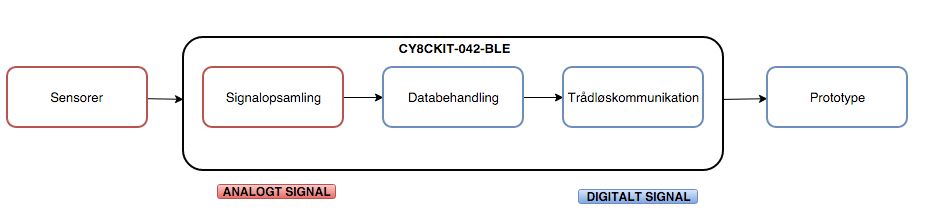
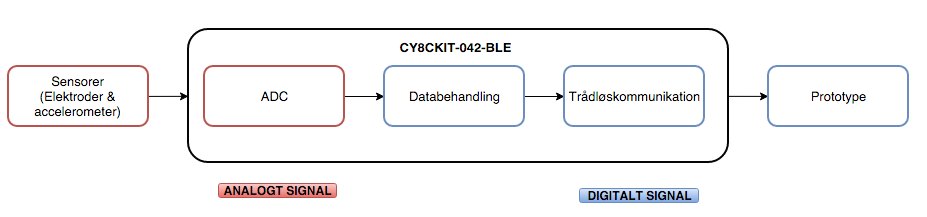
...

diff --git a/rapportAfsnit/cProblemanalyse/Knaeleddet.tex b/rapportAfsnit/cProblemanalyse/Knaeleddet.tex
@@ -1,6 +1,6 @@
 % !TeX spellcheck = da_DK
 \section{Gangfunktion}
-Efterhånden som ALS-patienter mister muskelkraft, vil bevægeligheden i deres led nedsættes, eftersom de ikke har tilstrækkelig muskelkraft til at udnytte leddenes bevægelighed. Af denne grund opstår der kontrakturer i leddene, og muskelstramninger i de muskler, der er omkringliggende det pågældende led. Ved gang anvendes knæ-, hofte- og ankelleddet, hvilket fremgår af \autoref{fig:knaet}, og hvis disse led ikke akviteres, opstår muskelstramninger i benenes muskler \citep{instforms2008}. Knæleddet vælges som udgangspunkt for et muligt body augmentation-system i form af et exoskelet, da knæleddet har et begrænset antal frihedsgrader. Dette gør, at knæleddet og de omkringliggende muskler er simplest at opbygge et system omkring. Hvis der kan laves et exoskelet omkring knæleddet, vil det kunne antages, at det også er muligt ved henholdsvis hofte- og ankelleddet, så gangfunktionen kan opretholdes.
+Efterhånden som ALS-patienter mister muskelkraft, vil bevægeligheden i deres led nedsættes, eftersom de ikke har tilstrækkelig muskelkraft til at udnytte leddenes bevægelighed. Af denne grund opstår der kontrakturer i leddene, og muskelstramninger i de muskler, der er omkringliggende. Ved gang anvendes knæ-, hofte- og ankelleddet, hvilket fremgår af \autoref{fig:knaet}, og hvis disse led ikke akviteres, opstår der muskelstramninger i benenes muskler \citep{instforms2008}. Knæleddet vælges som udgangspunkt for et muligt body augmentation-system i form af et exoskelet, da knæleddet er et hængselled og derfor har et begrænset antal frihedsgrader. Knæleddet har en frihedsgrad, modsat andre mere komplekse led, hvilket gør at leddet kun kan bevæge sig i en akse. Det antages derfor at knæleddet er et af de led som er simplest at opbygge et system omkring og opsamle signaler fra de omkringliggende muskler. Hvis der kan laves et exoskelet omkring knæleddet, vil det kunne antages, at samme princip kan muliggøres ved henholdsvis hofte- og ankelleddet, så gangfunktionen kan opretholdes.
 
 \begin{figure} [H]
 \centering
@@ -10,7 +10,8 @@ Efterhånden som ALS-patienter mister muskelkraft, vil bevægeligheden i deres l
 \end{figure} 
 
 \subsection{Knæets opbygning}
-Knæleddet er et hængselled, hvilket medvirker til, at knæet kan rotere begrænset, fleksere og ekstensere. Knæet består af tre separate ledforbindelser. To, der er forbundet mellem femur og tibia, samt et mellem patella og femur, hvilket fremgår af \autoref{fig:knae_anatomi}. Ud over de tre separate ledforbindelser stabiliseres knæet af syv ledbånd. Ét af de syv ledbånd er patellarsenen, som er ansvarlig under extension af knæet. Derudover er der to ledbånd, som strækker sig mellem femur, tibia og fibia, hvilket er med til at styrke knæleddets overflade posteriort. Inde i ledkapslen befinder det forreste korsbånd (ACL) og det bagerste korsbånd (PCL), som har til opgave at fastgøre indre knoglefremspring af tibia til knoglefremspringet på femur. Korsbåndene har til opgave at begrænse anteriore og posteriore bevægelser af femur og er med til at opretholde retningen af knoglefremspringene. Det tibiale kollaterale ligament forstærker den mediale flade af knæleddet og det fibulære kollaterale ligament forstærker sidefladen. Disse ligamenter anvendes kun ved fuld ekstension \citep{martini2012}.
+Knæleddet er som tidligere nævnt et hængselled, hvilket medvirker til få frihedsgrader, som gør at knæet kan rotere begrænset samt fleksere og ekstensere.
+Knæet består af tre separate ledforbindelser. To, der er forbundet mellem femur og tibia, samt et mellem patella og femur, hvilket fremgår af \autoref{fig:knae_anatomi}. Ud over de tre separate ledforbindelser stabiliseres knæet af syv ledbånd. Ét af de syv ledbånd er patellarsenen, som er ansvarlig under extension af knæet. Derudover er der to ledbånd, som strækker sig mellem femur, tibia og fibia, hvilket er med til at styrke knæleddets overflade posteriort. Inde i ledkapslen befinder det forreste korsbånd (ACL) og det bagerste korsbånd (PCL), som har til opgave at fastgøre indre knoglefremspring af tibia til knoglefremspringet på femur. Korsbåndene har til opgave at begrænse anteriore og posteriore bevægelser af femur og er med til at opretholde retningen af knoglefremspringene. Det tibiale kollaterale ligament forstærker den mediale flade af knæleddet og det fibulære kollaterale ligament forstærker sidefladen. Disse ligamenter anvendes kun ved fuld ekstension \citep{martini2012}.
 
 \begin{figure}[H]
 \centering
@@ -20,7 +21,7 @@ Knæleddet er et hængselled, hvilket medvirker til, at knæet kan rotere begræ
 \end{figure} 
 
 \subsection{Knæets funktion}
-Ved gang aktiveres quadricepsmusklerne, der sidder anteriort på femur, og hamstringmusklerne, der sidder poseriort på femur, hvilket fremgår af \autoref{fig:knae_anatomi}. Quadricepsmusklerne består af rectus femoris, vastus intermedius, vastus medialis og vastus lateralis. Hamstringmusklerne består af biceps femoris, semitendinosus og semimembranosus. Ved bevægelse foretager quadriceps- eller hamstringmusklerne ekstension eller fleksion, hvorved de fungerer som hinandens agonister eller antagonister under bevægelse \citep{martini2012}. 
+Ved gang aktiveres quadricepsmusklerne, der sidder anteriort på femur, og hasemusklerne, der sidder poseriort på femur, hvilket fremgår af \autoref{fig:knae_anatomi}. Quadricepsmusklerne består af rectus femoris, vastus intermedius, vastus medialis og vastus lateralis. Hamstringmusklerne består af biceps femoris, semitendinosus og semimembranosus. Ved bevægelse foretager quadriceps- eller hasemusklerne ekstension eller fleksion, hvorved de fungerer som hinandens agonister eller antagonister under bevægelse \citep{martini2012}. 
 
 Som tidligere nævnt anvendes hofte, knæ og ankler under gang. Udover disse led er også kropsposituren og sving af leddene afgørende for gangfunktionen. Det fremgår af \autoref{fig:knaet}, hvordan de forskellige led udfører fleksion, ekstension og ændres fra ekstension til neutral bevægelse under gang \citep{martini2012}.
 
@@ -32,7 +33,7 @@ Knæets funktion for bøjningen af benet kan dermed ses ved udførelse af en squ
 
 Squat kan udføres med varierende grader af fleksion af knæet. De mest anvendte varianter af øvelsen er halv eller fuld squat. Den halve squat-øvelse udføres indtil lårene er parallelle med jorden, hvilket svarer til en fleksion af knæet fra omkring $0-100^{\circ}$. Den dybe squat-øvelse udføres indtil det posteriore del af låret og læggen kommer i kontakt med hinanden. Den dybe squat anbefales mere trænede personer, hvorfor den halve squat typisk er foretrukket til optræning af knæet \citep{escamilla2001}.
 
-Ved udførelse af en squat-øvelse er det primært lårmusklerne, quadriceps- og hamstringsmusklerne, der aktiveres. Under denne øvelse aktiveres quadricepsmusklerne ved $80-90^{\circ}$ fleksion af knæet og aktivationen af musklerne er herefter konsistent. Der ses en større\fxnote{større end hvad?} aktivering af vastus intermedius, vastus medialis samt vastus lateris, da disse muskler er én ledmuskel, hvor rectus femoris er en to-ledsmuskel \fxnote{hvorfor aktiveres én-ledsmuskler mere end to-ledsmuskler?}. Hamstringmusklerne aktiveres ved en $45^{\circ}$ fleksion af knæleddet \citep{schoenfeld2010}. 
+Ved udførelse af en squat-øvelse er det primært lårmusklerne, quadriceps- og hasemusklerne, der aktiveres. Under denne øvelse aktiveres quadricepsmusklerne ved $80-90^{\circ}$ fleksion af knæet og aktiviteten af musklerne er herefter konsistent. Under en squat-øvelse aktiveres vastus intermedius, vastus medialis samt vastus lateris mere, da disse muskler er én ledmuskel, end rectus femoris der er en to-ledsmuskel \fxnote{hvorfor aktiveres én-ledsmuskler mere end to-ledsmuskler - jeg kan ikke finde det med hasemusklerne i den kilde der står til afsnittet?}. Hasemusklerne aktiveres ved en $45^{\circ}$ fleksion af knæleddet \citep{schoenfeld2010}. 
 
 
  %der er forbundet mellem femur, tibia og patella. Knæet har fire ledbånd. To af disse er side-ligamenterne, der sidder omkring knæleddet. De resterende to er korsbåndene, der sidder på skrå inden i knæet.

diff --git a/rapportAfsnit/eProblemloesning/systembeskrivelse.tex b/rapportAfsnit/eProblemloesning/systembeskrivelse.tex
@@ -1,7 +1,7 @@
 \section{Systembeskrivelse}
-Der ønskes, som tidligere nævnt, at udvikle et system, der har til formål at aflaste musklerne omkring knæleddet under udførelse af en squat-øvelse ved brug af et exoskelet. Dette gøres for at aflaste patienterne med henblik på at kunne undgå kørestol i tidlige stadier af ALS. Systemet skal kunne opsamle signaler fra lårmusklerne; quadriceps og hamstring. Disse signaler skal behandles og omsættes til aktivitet i en prototype af et exoskelet, som skal udføre en tilsvarende bevægelse, men også have mulighed for forstærkning af signalet, så mindre muskelkraft også vil kunne udløse denne bevægelse.. Af denne grund skal systemet være i stand til at måle muskelaktivitet i quadriceps og hamstring samt den aktuelle vinkel i knæleddet. Derudover skal systemet være brugervenligt ved at være kompakt, mobilt og ikke generende over for brugeren.
+Der ønskes, som tidligere nævnt, at udvikle et system, der har til formål at støtte musklerne omkring knæleddet hos ALS-patienter under udførelse af en squat-øvelse ved brug af et exoskelet. Dette gøres for at aflaste patienterne med henblik på at kunne undgå kørestol i tidlige stadier af ALS. Systemet skal kunne opsamle signaler fra quadriceps og hasemusklerne. Disse signaler skal behandles og omsættes til aktivitet, så det sammen med et programmeret system kan anvendes som en prototype af et exoskelet, som skal udføre en tilsvarende bevægelse, men også have mulighed for forstærkning af signalet, så mindre muskelkraft også vil kunne udløse denne bevægelse.. Af denne grund skal systemet være i stand til at måle muskelaktivitet i quadriceps og hamstring samt den aktuelle vinkel i knæleddet. Derudover skal systemet være brugervenligt ved at være kompakt, mobilt og ikke generende over for brugeren.
 
-\subsection{Krav til systemet} 
+\subsection{Krav til systemet} \fxnote{Jeg synes umiddelbart at vores krav er okay}
 \begin{itemize}
 \item Systemet skal registrere muskelaktivitet og ledvinkler
 \item Systemet skal kunne overføre data trådløst til en computer
@@ -20,6 +20,6 @@ Der ønskes, som tidligere nævnt, at udvikle et system, der har til formål at 
 \label{fig:blokdiagram}
 \end{figure}
 
-I dette projekt er der valgt at udarbejde en prototype, som har til formål at bøje knæleddet, når lårets muskler kontraherer. Opbygningen af systemet fremgår af \autoref{fig:blokdiagram}. Der anvendes to sensorer, EMG og accelerometer, til at opsamle biologiske signaler, For at registrere muskelaktivitet anvendes en EMG-sensor og en EMG-forstærker, der har til formål at forstærke den muskelaktivitet, der opsamles. Accelerometeret anvendes for at give systemet et input om, knæleddet vinkles  under udførslen af en squat-øvelse. Det opsamlede signal sendes herefter videre til den digitale del af systemet, hvilket er bestående af et Bluetooth Low Energy Pioneer kit (CY8CKIT-042-BLE), som opfanger de biologiske signaler og overfører dem trådløst til en CySmartUSB BLE Dongle sat i en computer, som kan kommunikere med prototypen af exoskelettet i LEGO Mindstorms. 
+I dette projekt er der valgt at udarbejde en prototype, som har til formål at bøje knæleddet, når lårets muskler kontraherer. Opbygningen af systemet fremgår af \autoref{fig:blokdiagram}. Der anvendes to sensorer, EMG og accelerometer, til at opsamle biologiske signaler, For at registrere muskelaktivitet anvendes en elektroder og en EMG-forstærker, der har til formål at forstærke signalet, der opsamles. Accelerometeret anvendes for at give systemet et input om, knæleddet vinkles  under udførslen af en squat-øvelse. Det opsamlede signal sendes herefter videre til den digitale del af systemet, hvilket er bestående af et Bluetooth Low Energy Pioneer kit (CY8CKIT-042-BLE), som opfanger de biologiske signaler og overfører dem trådløst til en CySmartUSB BLE Dongle sat i en computer, som kan kommunikere med prototypen af exoskelettet udviklet i LEGO Mindstorms. 
 
 

diff --git a/rapportAfsnit/dProblemformulering/Problemafgraensning.tex b/rapportAfsnit/dProblemformulering/Problemafgraensning.tex
@@ -2,10 +2,12 @@
 \section{Problemafgrænsning}
 I dette projekt fokuseres på ALS-patienter samt muligheden for opretholdelse af kropsfunktioner ved benyttelse af exoskelet. 
 
-Da ALS-patienter oplever progressivt muskelsvind, har dette indflydelse på deres selvstændighed, da de gradvist mister kontrollen over deres legemsdele. Da der kun eksisterer palliative behandlinger til ALS-patienter, fokuseres der i dette projekt på at afhjælpe deres fysiske mangler ved brug af et exoskelet som aflastning.
-Ved opretholdes af de fysiske funktioner vil dette ligeledes have en gavnlig effekt på den sundhedsrelaterede livskvalitet, da det vil kunne resultere i en større selvstændighed.% Der er dog ingen garanti for, at det vil gavne den overordnede livskvalitet.  
+Da ALS-patienter oplever progressivt muskelsvind, har dette indflydelse på deres selvstændighed, da de gradvist mister kontrollen over deres muskler. Da der kun eksisterer palliative behandlinger til ALS-patienter, fokuseres der i dette projekt på at afhjælpe deres fysiske mangler ved brug af et exoskelet som støtte.
+Ved opretholdes af de fysiske funktioner vil dette ligeledes have en gavnlig effekt på den sundhedsrelaterede livskvalitet, da det vil kunne resultere i en større selvstændighed \citep{ilse2015, tramonti2012}.% Der er dog ingen garanti for, at det vil gavne den overordnede livskvalitet.  
 
-Idet ALS vil resultere i, at patienten mister evnen til at kunne gå, fokuseres der på at opretholde denne funktion. Til dette fokuseres yderligere på knæet i forhold til gang, hvor musklerne omkringliggende knæet afhjælpes ved anvendelse af et exoskelet.
+Idet ALS vil resultere i, at patienten mister evnen til at kunne gå, fokuseres der på at opretholde denne funktion. Fokus ligges på knæets funktion under en squat-øvelse, med henblik på at støtte de omkringliggende muskler ved anvendelse af et exoskelet.
 
 \subsection{Problemformulering}
 Hvordan kan et exoskelet anvendes for at aflaste ALS-patienters lårmuskulatur under en squat-øvelse?
+
+Hvordan kan et exoskelet styres og derved anvendes for at støtte ALS-patienters lårmuskulatur under en squat-øvelse?
